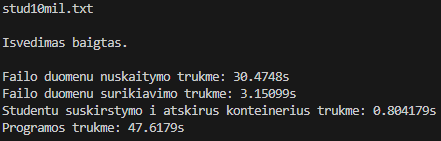
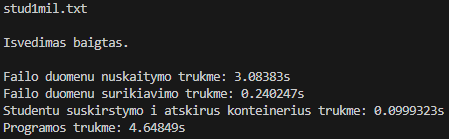
Pratestuota programa su std::vector konteineriais.

diff --git a/src/strukturos_konstantos.h b/src/strukturos_konstantos.h
@@ -9,7 +9,7 @@
 
 // KONTEINERIO TIPAS, KURĮ NAUDOJA VISA PROGRAMA (VECTOR / DEQUE / LIST)
 template <typename T>
-using Container = std::deque<T>;
+using Container = std::vector<T>;
 
 // kad būtų trumpiau
 const auto MAX_INT = std::numeric_limits<int>::max();

diff --git a/README.md b/README.md
@@ -14,15 +14,43 @@
 
 ##### 1 000 įrašų
 
+![alt text](image-75.png)
+![alt text](image-74.png)
+![alt text](image-73.png)
+![alt text](image-72.png)
+![alt text](image-71.png)
+
 ##### 10 000 įrašų
+
+![alt text](image-70.png)
+![alt text](image-69.png)
+![alt text](image-68.png)
+![alt text](image-67.png)
+![alt text](image-66.png)
 
 ##### 100 000 įrašų
 
+![alt text](image-65.png)
+![alt text](image-64.png)
+![alt text](image-63.png)
+![alt text](image-62.png)
+![alt text](image-61.png)
+
 ##### 1 000 000 įrašų
+
+![alt text](image-60.png)
+![alt text](image-59.png)
+![alt text](image-58.png)
+![alt text](image-57.png)
+![alt text](image-27.png)
 
 ##### 10 000 000 įrašų
 
-![alt text](image-27.png)
+![alt text](image-52.png)
+![alt text](image-53.png)
+![alt text](image-54.png)
+![alt text](image-55.png)
+![alt text](image-56.png)
 
 ### 2. Programos versija su std::deque
 
